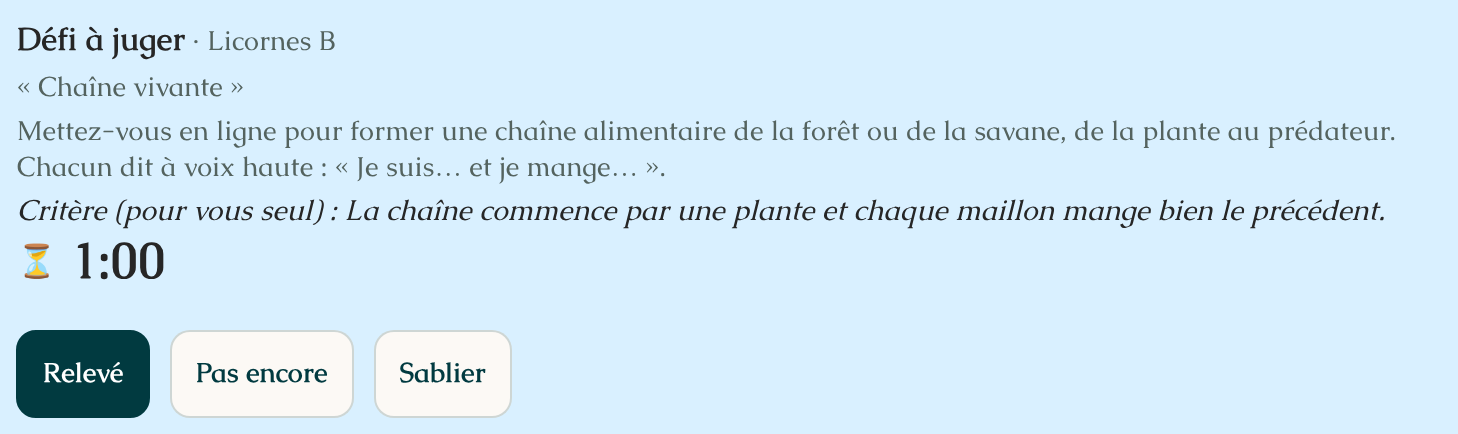
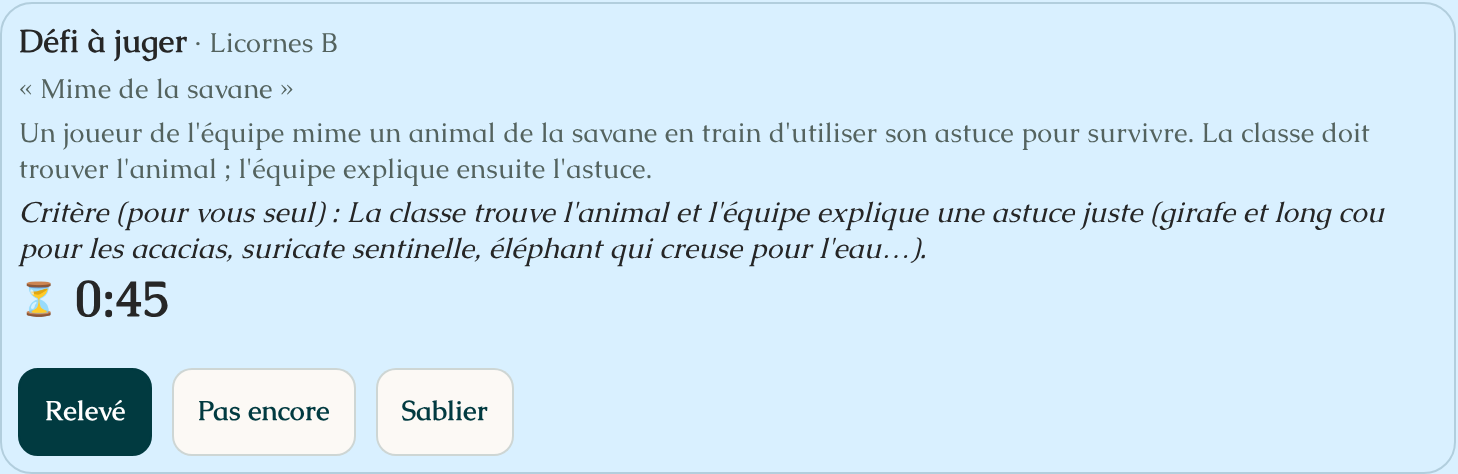
test(gl): e2e des défis autonome sur une base neuve ; captures régénérées avec les bordures
Le e2e des défis de la Trame sème ses trois pages de veillée : sur une base neuve, le chapitre n'en a aucune à donner. Les captures des lots 2 et 3 sont régénérées par la suite e2e G&L complète (58 verts, 2 ignorés), bordures et légendes à jour.

Claude-Session: https://claude.ai/code/session_01KYTRNbWCaSRTcap5VZ7LGA

diff --git a/e2e/gl-tenir-defis-trame.spec.js b/e2e/gl-tenir-defis-trame.spec.js
@@ -1,5 +1,5 @@
 const { test, expect } = require('@playwright/test');
-const { queryOne, queryAll } = require('../database');
+const { queryOne, queryAll, execute } = require('../database');
 const { createTenirGame } = require('../tests/helpers/glTenirFixtures');
 const { mountGlSession } = require('./fixtures/gl.fixture');
 const core = require('../lib/shared/glTrameCore');
@@ -24,6 +24,20 @@ async function bourses(gameId) {
     [gameId],
   );
   return `${row.pv}|${row.gemmes}`;
+}
+
+/** Trois pages de veillée du plateau 1, hors de toute zone de chasse : ce qu'un défi peut donner. */
+async function semerPagesDeVeillee() {
+  for (const [i, lettre] of ['a', 'b', 'c'].entries()) {
+    await execute(
+      `INSERT INTO gl_lore_feuillets (feuillet_code, type, titre, incipit, texte, texte_accessible, biome_slug,
+          plateau_number, mode_apparition, ordre_voyage, statut, created_at, updated_at)
+       VALUES (?, 'feuillet', ?, 'La savane respire.', 'La savane respire.', 'La savane respire.', 'savane',
+          1, 'boite', ?, 'actif', NOW(), NOW())
+       ON DUPLICATE KEY UPDATE statut = 'actif'`,
+      [`e2e-trame-veillee-${lettre}`, `Page de veillée ${lettre}`, -20 + i],
+    );
+  }
 }
 
 async function sansIntro(page) {
@@ -58,6 +72,7 @@ test.describe('GL — défis de la Trame', () => {
       data: { profil: 'complet', overrides: { surface: 'tablette' } },
     });
     expect(profil.ok(), await profil.text()).toBeTruthy();
+    await semerPagesDeVeillee();
     const avant = await bourses(gameId);
 
     // --- Tablette d'équipe (Gnomes), hors tour : Retisser niveau 5 ---------------------------
